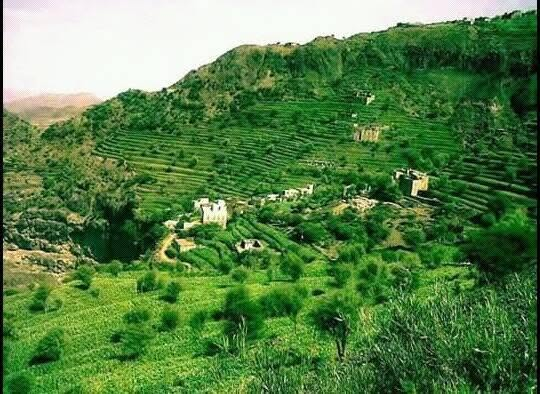
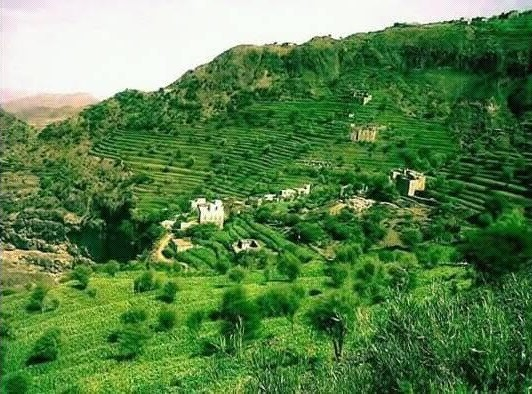
added the village photos

Changed region(s): [[0.4211, 0.0, 1.0, 1.0], [0.0, 0.0, 0.3308, 1.0]]

diff --git a/css/village.css b/css/village.css
@@ -1,19 +1,20 @@
-/* =============================================
-   village.css - تنسيقات صفحة "عن القرية"
-   ============================================= */
+/* ===== تنسيقات صفحة "عن القرية" ===== */
 
-/* ===== إضافة مسافة للعنوان الرئيسي ===== */
+/* مسافة للعنوان الرئيسي */
 .section-title {
     margin-top: 2rem;
 }
 
-/* ===== القسم 1: النبذة والصورة ===== */
+/* ===== القسم 1: النبذة + الصورة ===== */
+
+/* حاوية النبذة والصورة */
 .village-about {
     max-width: 1200px;
     margin: 0 auto;
     padding: 0 1.5rem 3rem;
 }
 
+/* ترتيب النص والصورة جنب بعض */
 .village-about__content {
     display: flex;
     flex-wrap: wrap;
@@ -21,11 +22,13 @@
     align-items: center;
 }
 
+/* عمود النص */
 .village-about__text {
     flex: 1;
     min-width: 280px;
 }
 
+/* عنوان "قرية المشاوز" */
 .village-about__text h3 {
     color: var(--primary-color, #2E7D32);
     font-size: 2rem;
@@ -33,7 +36,7 @@
     position: relative;
 }
 
-/* خط زخرفي تحت العنوان */
+/* الخط الذهبي تحت العنوان */
 .village-about__text h3::after {
     content: '';
     display: block;
@@ -44,17 +47,20 @@
     border-radius: 4px;
 }
 
+/* النص التعريفي */
 .village-about__text p {
     font-size: 1.1rem;
     line-height: 1.9;
     color: var(--text-dark, #212121);
 }
 
+/* عمود الصورة */
 .village-about__img {
     flex: 1;
     min-width: 280px;
 }
 
+/* الصورة نفسها */
 .village-about__img img {
     width: 100%;
     border-radius: 20px;
@@ -63,12 +69,15 @@
     transition: transform 0.4s ease, box-shadow 0.4s ease;
 }
 
+/* تكبير الصورة عند التمرير */
 .village-about__img img:hover {
     transform: scale(1.02);
     box-shadow: 0 18px 40px rgba(0, 0, 0, 0.18);
 }
 
-/* ===== قسم الموقع والتاريخ (بطاقات خضراء) ===== */
+/* ===== بطاقات الموقع والتاريخ ===== */
+
+/* شبكة البطاقتين */
 .village-details {
     display: grid;
     grid-template-columns: repeat(auto-fit, minmax(280px, 1fr));
@@ -78,26 +87,26 @@
     padding: 0 1.5rem 3rem;
 }
 
-/* البطاقة الجديدة (خضراء بالكامل) */
+/* البطاقة الواحدة (خضراء) */
 .village-details__card {
-    background: #E8F5E9; /* أخضر فاتح جداً (مريح للعين) */
+    background: #E8F5E9;
     padding: 2rem 1.8rem;
     border-radius: 20px;
-    border-top: 6px solid var(--primary-color, #2E7D32); /* شريط أخضر غامق في الأعلى */
-    box-shadow: 0 4px 12px rgba(46, 125, 50, 0.08); /* ظل أخضر خفيف */
+    border-top: 6px solid var(--primary-color, #2E7D32);
+    box-shadow: 0 4px 12px rgba(46, 125, 50, 0.08);
     transition: transform 0.3s ease, box-shadow 0.3s ease, background 0.3s ease;
 }
 
-/* عند تمرير الماوس (يرتفع ويصبح الظل أقوى) */
+/* تأثير التمرير على البطاقة */
 .village-details__card:hover {
     transform: translateY(-8px);
     box-shadow: 0 16px 32px rgba(46, 125, 50, 0.15);
-    background: #C8E6C9; /* يصبح أخضر فاتح متوسط عند المرور */
+    background: #C8E6C9;
 }
 
-/* عناوين البطاقات (الموقع والتاريخ) */
+/* عنوان البطاقة (الموقع / التاريخ) */
 .village-details__card h4 {
-    color: var(--primary-color, #2E7D32); /* أخضر غامق بدل الأزرق */
+    color: var(--primary-color, #2E7D32);
     font-size: 1.5rem;
     margin-bottom: 0.75rem;
 }
@@ -108,25 +117,9 @@
     color: var(--text-dark, #212121);
 }
 
-/* ===== معرض الصور ===== */
-.gallery-title {
-    text-align: center;
-    color: var(--primary-color, #2E7D32);
-    font-size: 1.8rem;
-    margin: 0 1.5rem 2rem;
-    position: relative;
-}
+/* ===== معرض الصور (بدون عنوان) ===== */
 
-.gallery-title::after {
-    content: '';
-    display: block;
-    width: 80px;
-    height: 4px;
-    background-color: var(--accent-color, #F9A825);
-    margin: 0.5rem auto 0;
-    border-radius: 4px;
-}
-
+/* شبكة الصور */
 .gallery-grid {
     display: grid;
     grid-template-columns: repeat(auto-fit, minmax(280px, 1fr));
@@ -136,6 +129,7 @@
     padding: 0 1.5rem 3rem;
 }
 
+/* بطاقة الصورة الواحدة */
 .gallery-grid__item {
     border-radius: 18px;
     overflow: hidden;
@@ -144,12 +138,13 @@
     background-color: var(--bg-light);
 }
 
-/* تأثير التمرير على الصورة */
+/* تأثير التمرير على بطاقة الصورة */
 .gallery-grid__item:hover {
     transform: translateY(-8px);
     box-shadow: 0 16px 32px rgba(0, 0, 0, 0.14);
 }
 
+/* الصورة نفسها */
 .gallery-grid__item img {
     width: 100%;
     height: 260px;
@@ -158,6 +153,7 @@
     transition: transform 0.5s ease;
 }
 
+/* تكبير الصورة عند التمرير */
 .gallery-grid__item:hover img {
     transform: scale(1.08);
 }

diff --git a/village.html b/village.html
@@ -76,6 +76,7 @@
         <!-- ===== القسم 2: الموقع والتاريخ ===== -->
         <div class="village-details">
 
+            <!-- بطاقة الموقع -->
             <div class="village-details__card">
                 <h4>الموقع</h4>
                 <p>
@@ -84,6 +85,7 @@
                 </p>
             </div>
 
+            <!-- بطاقة التاريخ -->
             <div class="village-details__card">
                 <h4> التاريخ</h4>
                 <p>
@@ -95,17 +97,16 @@
 
         </div>
 
-        <!-- ===== القسم 3: معرض الصور ===== -->
-
+        <!-- ===== معرض الصور ===== -->
         <div class="gallery-grid">
             <figure class="gallery-grid__item">
-                <img src="https://picsum.photos/seed/village1/600/400" alt="منظر طبيعي">
+                <img src="images/3.jpg" alt="منظر طبيعي">
             </figure>
             <figure class="gallery-grid__item">
-                <img src="https://picsum.photos/seed/village2/600/400" alt="منظر جبلي">
+                <img src="images/4.jpg" alt="منظر جبلي">
             </figure>
             <figure class="gallery-grid__item">
-                <img src="https://picsum.photos/seed/village3/600/400" alt="منظر زراعي">
+                <img src="images/5.jpg" alt="منظر زراعي">
             </figure>
         </div>
 

diff --git a/solidarity.html b/solidarity.html
@@ -92,7 +92,7 @@
                 <!-- بطاقة 3 -->
                 <article class="card-project">
                     <figure class="card-image">
-                        <img src="images/eid-clothing.jpg" alt="مشروع كسوة العيد">
+                        <img src="images/eid-donation.jpg" alt="مشروع كسوة العيد">
                     </figure>
                     <div class="card-body">
                         <h3>مشروع كسوة العيد</h3>
